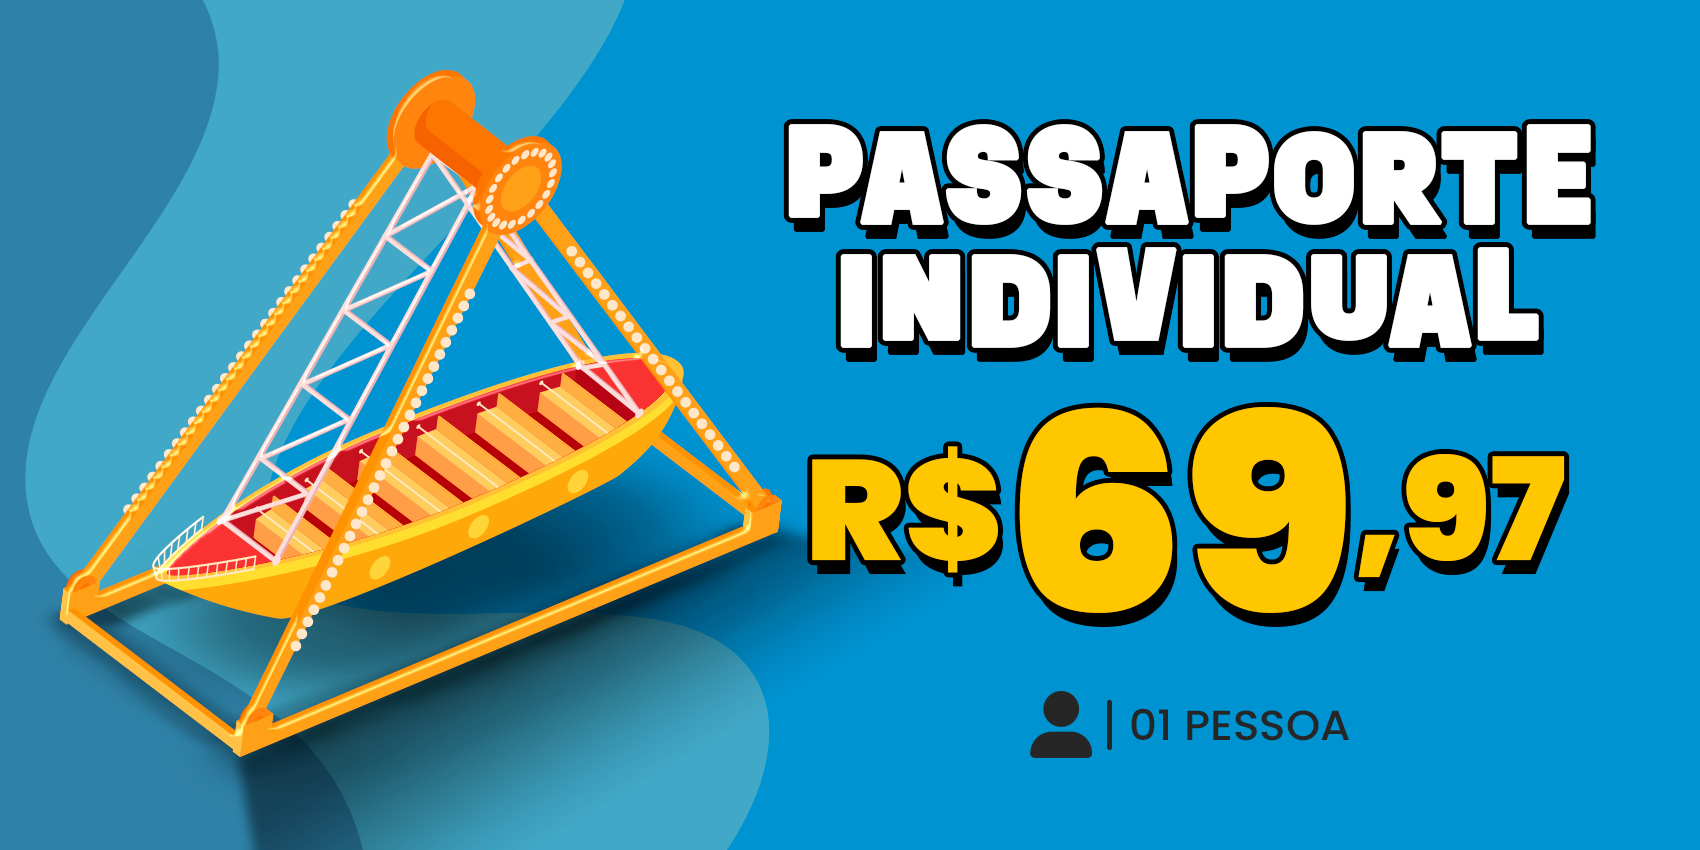
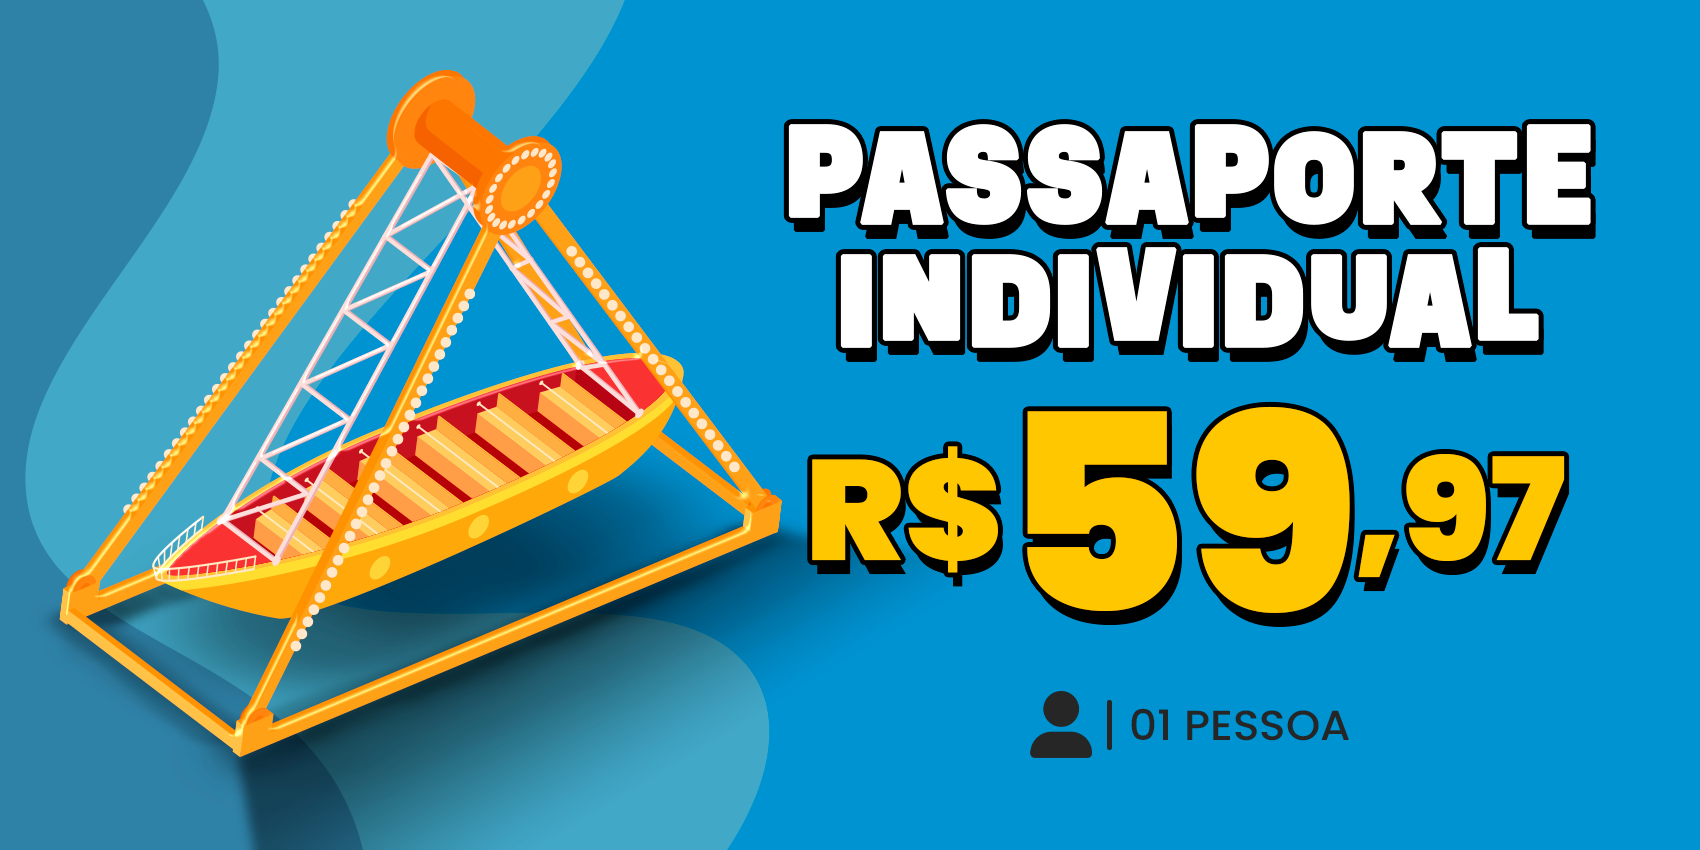
change prices

Changed region(s): [[0.5924, 0.4588, 0.8106, 0.7341], [0.7171, 0.7035, 0.7794, 0.7341], [0.7171, 0.4588, 0.7794, 0.4894]]

diff --git a/src/pages/passaportes.tsx b/src/pages/passaportes.tsx
@@ -60,7 +60,7 @@ export default function PassaportsPage() {
                   price={4997}
                   banner={PassaporteAntecipado}
                   quantity={1}
-                  reference={6997}
+                  reference={5997}
                   isPassport
                 />
                 <Ticket
@@ -69,55 +69,37 @@ export default function PassaportsPage() {
                   price={8597}
                   banner={ComboAntecipado}
                   quantity={2}
-                  reference={6997}
+                  reference={5997}
                   isPassport
                 />
               </>
             ) : (
               <>
-                {/* <Ticket
+                <Ticket
                   id={2}
                   name="Passaporte Individual"
-                  price={6997}
+                  price={5997}
                   banner={PassaporteIndividual}
                   quantity={1}
-                  reference={6997}
+                  reference={5997}
                   isPassport
                 />
                 <Ticket
                   id={3}
                   name="Combo Encantado"
-                  price={12997}
+                  price={10997}
                   banner={ComboEncantado}
                   quantity={2}
-                  reference={6997}
+                  reference={5997}
                   isPassport
                 />
                 <Ticket
                   id={4}
                   name="Combo Espetacular"
-                  price={15997}
+                  price={13997}
                   banner={ComboEspetacular}
                   quantity={3}
-                  reference={6997}
-                  isPassport
-                /> */}
-                <Ticket
-                  id={7}
-                  name="Passaporte Antecipado"
-                  price={4997}
-                  banner={PassaporteAntecipado}
-                  quantity={1}
-                  reference={6997}
-                  isPassport
-                />
-                <Ticket
-                  id={14}
-                  name="Combo Antecipado"
-                  price={8597}
-                  banner={ComboAntecipado}
-                  quantity={2}
-                  reference={6997}
+                  reference={5997}
                   isPassport
                 />
               </>

diff --git a/src/components/organisms/Tickets.tsx b/src/components/organisms/Tickets.tsx
@@ -72,14 +72,14 @@ export default function Tickets() {
         </>
       ) : (
         <>
-          {/* <SwiperSlide>
+          <SwiperSlide>
             <Ticket
               id={2}
               name="Passaporte Individual"
-              price={6997}
+              price={5997}
               banner={PassaporteIndividual}
               quantity={1}
-              reference={6997}
+              reference={5997}
               isPassport
             />
           </SwiperSlide>
@@ -87,10 +87,10 @@ export default function Tickets() {
             <Ticket
               id={3}
               name="Combo Encantado"
-              price={12997}
+              price={10997}
               banner={ComboEncantado}
               quantity={2}
-              reference={6997}
+              reference={5997}
               isPassport
             />
           </SwiperSlide>
@@ -98,33 +98,10 @@ export default function Tickets() {
             <Ticket
               id={4}
               name="Combo Espetacular"
-              price={15997}
+              price={13997}
               banner={ComboEspetacular}
               quantity={3}
-              reference={6997}
-              isPassport
-            />
-          </SwiperSlide> */}
-          <SwiperSlide>
-            <Ticket
-              id={7}
-              name="Passaporte Antecipado"
-              price={4997}
-              banner={PassaporteAntecipado}
-              quantity={1}
-              reference={6997}
-              isPassport
-            />
-          </SwiperSlide>
-
-          <SwiperSlide>
-            <Ticket
-              id={14}
-              name="Combo Antecipado"
-              price={8597}
-              banner={ComboAntecipado}
-              quantity={2}
-              reference={6997}
+              reference={5997}
               isPassport
             />
           </SwiperSlide>
